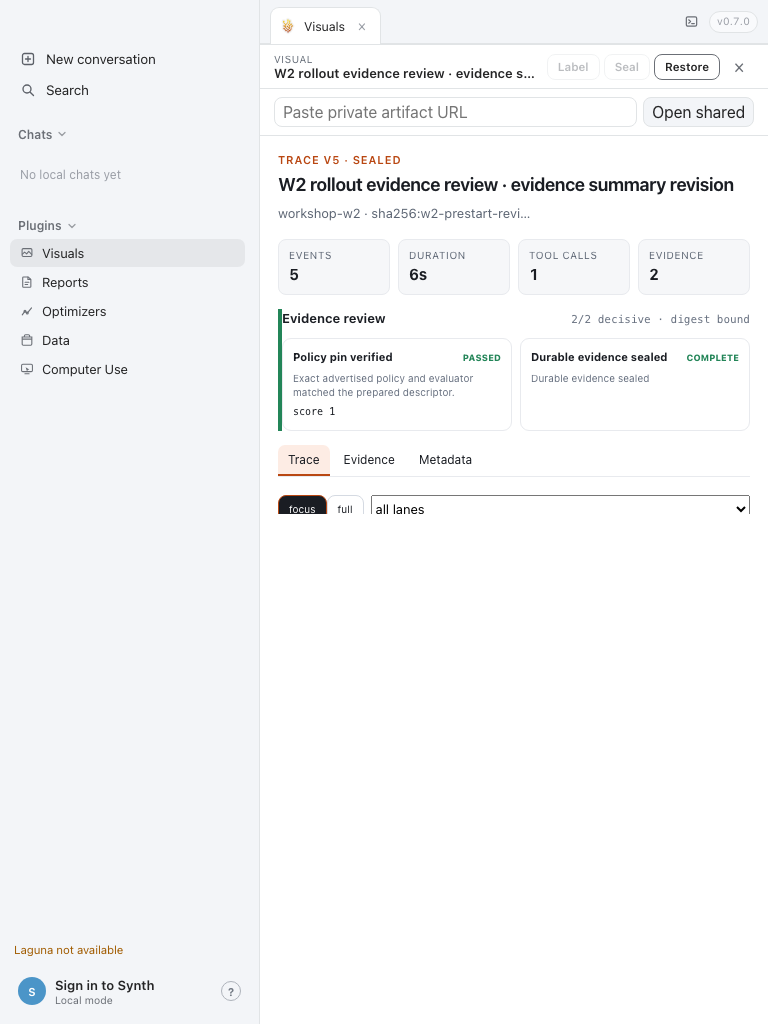
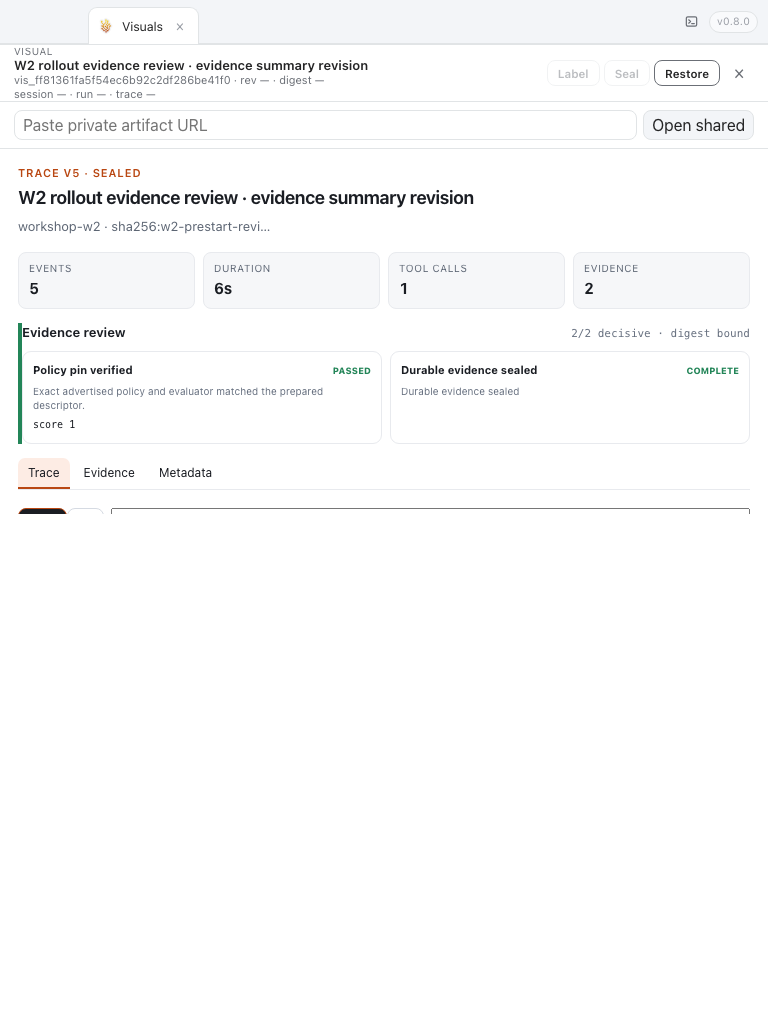
Keep browser visual proofs error free

diff --git a/apps/synth_desktop/tests/playwright/w2-evidence-review.spec.ts b/apps/synth_desktop/tests/playwright/w2-evidence-review.spec.ts
@@ -55,11 +55,13 @@ test("W2 revised evidence review is rendered and legible wide and compact", asyn
 	await page.getByTestId("titlebar").waitFor();
 	await page.getByTestId("open-visuals").click();
 	await page.getByTestId(`visuals-card-${visual.id}`).getByRole("button", { name: "Open" }).click();
+	await expect(page.locator(".toast")).toHaveCount(0);
+	await page.getByTestId("toggle-visual-expand").click();
+	await expect(page.getByTestId("toggle-visual-expand")).toHaveAttribute("aria-pressed", "true");
 	mkdirSync(PROOF_DIR, { recursive: true });
 
 	for (const state of [{ name: "wide", width: 1280, height: 900 }, { name: "compact", width: 768, height: 1024 }]) {
 		await page.setViewportSize({ width: state.width, height: state.height });
-		if (state.name === "compact") await page.getByTestId("toggle-visual-expand").click();
 		await page.waitForTimeout(250);
 		const summary = page.getByTestId("visual-pane").getByTestId("trace-evidence-summary");
 		await expect(summary).toBeVisible();
@@ -75,6 +77,5 @@ test("W2 revised evidence review is rendered and legible wide and compact", asyn
 		expect(geometry.summary?.left).toBeGreaterThanOrEqual(0);
 		expect(geometry.summary?.right).toBeLessThanOrEqual(state.width + 1);
 		await page.screenshot({ path: resolve(PROOF_DIR, `${state.name}-${state.width}x${state.height}.png`), fullPage: true });
-		if (state.name === "compact") await page.getByTestId("toggle-visual-expand").click();
 	}
 });

diff --git a/apps/synth_desktop/src/renderer/src/routes.tsx b/apps/synth_desktop/src/renderer/src/routes.tsx
@@ -40,7 +40,7 @@ import { ResponsesTracePanel } from "./components/ResponsesTracePanel";
 import { DiagnosticsPanel } from "./components/DiagnosticsPanel";
 import { ErrorsLogsPanel } from "./components/ErrorsLogsPanel";
 import { sessionIsLocalChat } from "./runtime/sessionView";
-import { bridges } from "./runtime/desktopBridge";
+import { bridges, isDesktopApp } from "./runtime/desktopBridge";
 import {
 	openTraceReference,
 	VISUAL_OPS_FOLLOW_EVENT,
@@ -265,6 +265,7 @@ export function MainRoutes(props: MainRoutesProps): ReactNode {
 		loadOlderTranscript
 	} = props;
 	useEffect(() => {
+		if (!isDesktopApp()) return;
 		let disposed = false;
 		let unlisten: (() => void) | undefined;
 		void listen<{ instance?: string | null; view: string; runId?: string | null }>(
